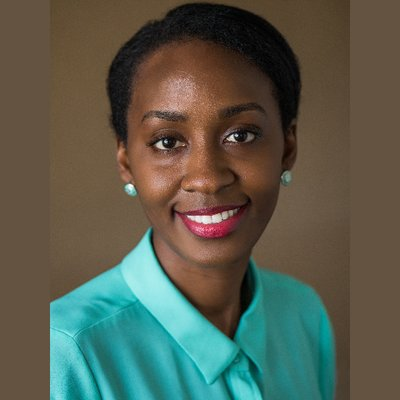
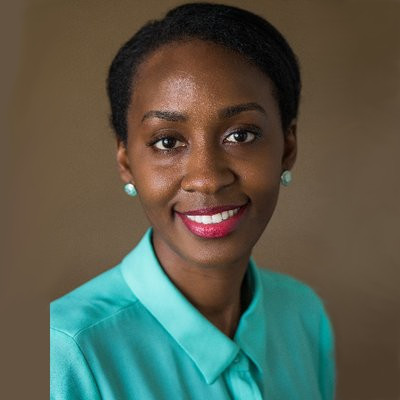
updated headshot css and modified images when needed

Changed region(s): [[0.87, 0.87, 1.0, 1.0]]

diff --git a/styles.css b/styles.css
@@ -350,148 +350,68 @@ div.speakers {
   font-size: 1.15rem;
   width: 326px;
 }
-.wilnelia {
-  background-image: url("./resources/speakers/day_one/wilnelia_recart_gonzález.jpg");
-}
-.hailey {
-  background-image: url("./resources/speakers/day_one/Hailey_Levi-Speaker.png");
-  background-position-y: -60px;
-}
-.danielle {
-  background-image: url("./resources/speakers/day_one/danielle_heinz.jpg");
-  background-position-y: -40px;
-}
-.robin {
-  background-image: url("./resources/speakers/day_one/robin-lopez.jpg");
-}
-.kyle {
-  background-image: url("./resources/speakers/day_one/Kyle_Marian.JPG");
-  background-position: top;
-}
-.ravi {
-  background-image: url("./resources/speakers/day_two/Ravi-Speaker.jpg");
-  background-position-y: -18px;
-}
-.newton {
-  background-image: url("./resources/speakers/day_two/Newton.jpg");
-  background-position-y: -42px;
-}
-.alyssa {
-  background-image: url("./resources/speakers/day_two/Alyssa.JPG");
-  background-position: -52px -48px;
-  background-size: 160%;
-}
-.karen {
-  background-image: url("./resources/speakers/day_two/Karen_Tang.jpg");
-  background-position-y: -25px;
-  background-size: 115%;
-}
-.ariana {
-  background-image: url("./resources/speakers/day_two/Ariana.jpg");
-  background-size: 120%;
-  background-position: -12px -127px;
-}
-.megan {
-  background-image: url("./resources/speakers/day_two/Megan_Lynch_Lab_Photo.JPG");
-  background-position-y: 0;
-  background-size: 103%;
-}
-.nichole {
-  background-image: url("./resources/speakers/day_two/Nichole_Bennett_Speaker.jpg");
-}
-a.nichole-link {
-  color: #fff;
-}
-.linh-anh {
-  background-image: url("./resources/speakers/day_two/Linh_Anh_Cat-Co-Founder.jpg");
-  background-position-y: -60px;
-}
-.iam {
-  background-image: url("./resources/speakers/day_two/GaieckWilliam_ProfilePicture.jpg");
-  background-size: 113%;
-  background-position: 0px -30px;
-}
-.crystal {
-  background-image: url("./resources/speakers/day_two/Crystal_Grant.JPG");
-  background-position-y: -50px;
-}
-.maria {
-  background-image: url("./resources/speakers/day_two/Montchal_Headshot.jpeg");
-  background-position-y: -10px;
+/* .evelyn {
+  background-image: url("./resources/speakers/day_1/");
+} */
+.robert {
+  background-image: url("./resources/speakers/day_1/Rob_Ulrich_Speaker.jpeg");
+  background-position: -3px 0px;
+  background-color: #ececea;
+  background-size: 100%;
 }
 .dane {
-  background-image: url("./resources/speakers/day_two/Dane_Samilo_Speaker.jpg");
+  background-image: url("./resources/speakers/day_1/Dane_Samilo_Speaker.jpg");
 }
-.ivan {
-  background-image: url("./resources/speakers/day_two/Ivan_Moreno_Speaker.jpg");
+.ana {
+  background-image: url("./resources/speakers/day_1/Ana_Maria_Porras_Speaker.jpeg");
+  background-position: 25px -4px;
+  background-color: white;
 }
-.ti {
-  background-image: url("./resources/speakers/day_two/Ti_'era.JPEG");
-  background-position-y: -67px;
+.alyssa {
+  background-image: url("./resources/speakers/day_1/Alyssa_Paparella_Speaker.JPG");
+  background-position: 0px -12px;
+  background-size: 115%;
 }
-.leakana {
-  background-image: url("./resources/speakers/day_three/Leakana_Picture_1.jpg");
-  background-position: -89px 0px;
-  background-size: 137%;
+.celina {
+  background-image: url("./resources/speakers/day_1/Celina_Valencia_Speaker.png");
+  background-position: -5px 0px;
+  background-size: 104%;
 }
-.lydia {
-  background-image: url("./resources/speakers/day_three/Lydia_Jennings.jpg");
-  background-position: -81px -38px;
-  background-size: 170%;
+/* .chelsie {
+  background-image: url("./resources/speakers/day_1/");
+} */
+.samantha {
+  background-image: url("./resources/speakers/day_2/samantha_yammine_speaker.jpg");
+  background-position: -20px -25px;
+  background-size: 107%;
 }
-.stephanie {
-  background-image: url("./resources/speakers/day_three/Stephanie_Castillo.jpeg");
-  background-position: -5px -96px;
-  background-size: 110%;
+.sophie {
+  background-image: url("./resources/speakers/day_2/sophie_okolo_speaker.jpg");
+  background-repeat: no-repeat;
+  background-position: -31px 5px/109%;
+  background-color: #604f3d;
 }
-.toby {
-  background-image: url("./resources/speakers/day_three/toby_itati.jpg");
-  background-position: 0 0;
+/* .ans {
+  background-image: url("./resources/speakers/day_2/");
+} */
+.mani {
+  background-image: url("./resources/speakers/day_3/mani_garcía_speaker.jpg");
+  background-position: -4px -43px;
+  background-size: 119%;
 }
-.gabe {
-  background-image: url("./resources/speakers/day_three/gabe_santos.JPG");
-  background-position: -176px -44px;
-  background-size: 205%;
+.hailey {
+  background-image: url("./resources/speakers/day_3/Hailey_Levi_Speaker.png");
+  background-position-y: -60px;
 }
-.jeanette {
-  background-image: url("./resources/speakers/day_three/jeanette_pirlo.jpeg");
-  background-size: 140%;
-  background-position: -43px -48px;
+.christopher {
+  background-image: url("./resources/speakers/day_3/chris_jackson_speaker.jpg");
+  background-position: -13px -20px;
+  background-color: #e6e7e9;
 }
-.phong {
-  background-image: url("./resources/speakers/day_four/Phong.jpeg");
-  background-position-y: 0px;
-}
-.priya {
-  background-image: url("./resources/speakers/day_four/Priya_Shukla.jpg");
-  background-position: -31px -97px;
-  background-size: 111%;
-}
-.vetri {
-  background-image: url("./resources/speakers/day_four/Vetri.jpg");
-  background-position-y: -94px;
-}
-.lourdes {
-  background-image: url("./resources/speakers/day_four/lourdes_vera.jpg");
-  background-position-x: 0;
-}
-.leslie {
-  background-image: url("./resources/speakers/day_four/leslie.JPG");
-  background-position: -15px -48px;
-  background-size: 105%;
-}
-.bala {
-  background-image: url("./resources/speakers/day_four/bala.jpg");
-  background-position-x: -100px;
-}
-.tam {
-  background-image: url("./resources/speakers/day_four/Tamara_Marcus-East_Coast_Director.jpg");
-  background-position: -131px -32px;
-  background-size: 172%;
-}
-.jason {
-  background-image: url("./resources/speakers/day_four/Jason_Ward_Keynote.jpeg");
-  background-position-y: -20px;
+.adys {
+  background-image: url("./resources/speakers/day_3/adys_mendizabal_speaker.jpg");
+  background-position: -117px -31px;
+  background-size: 174%;
 }
 /* ************** */
 /*  ** Donors **  */
